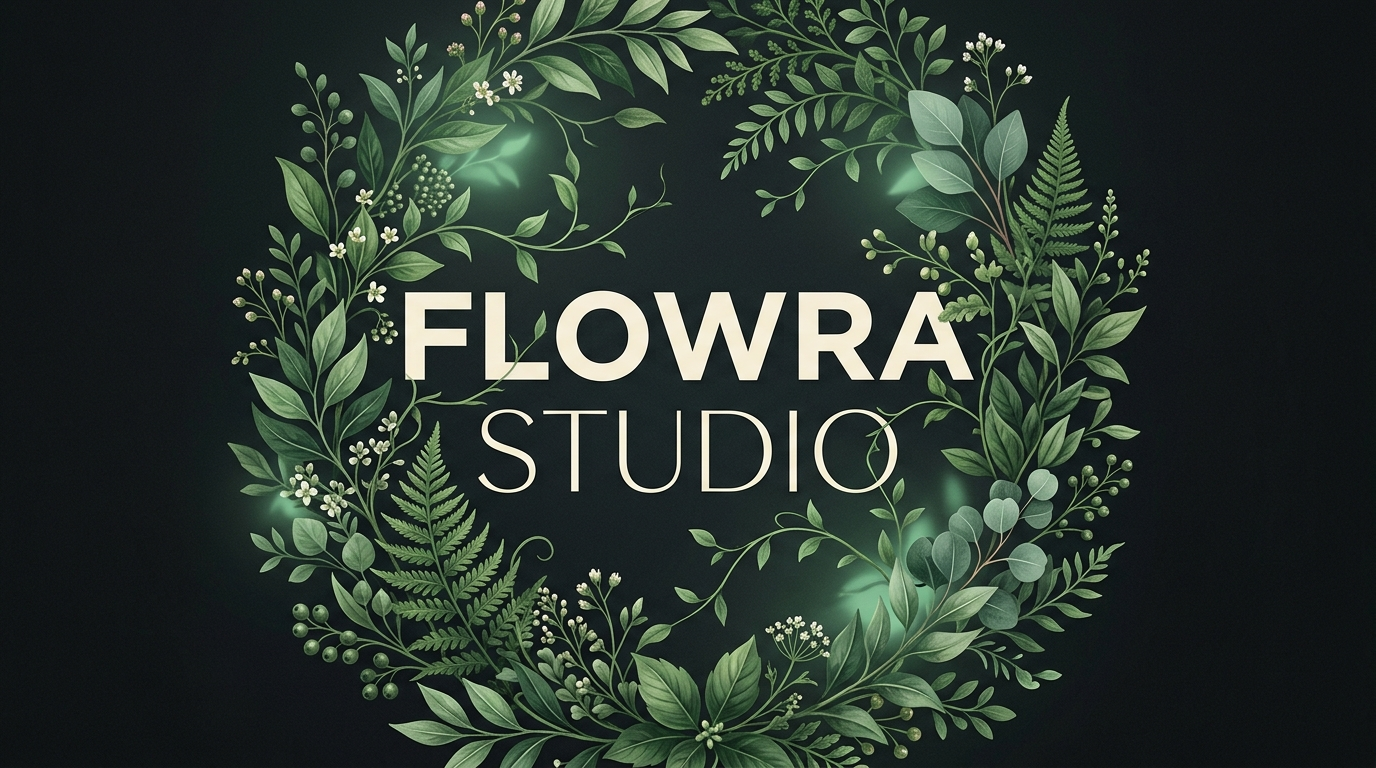
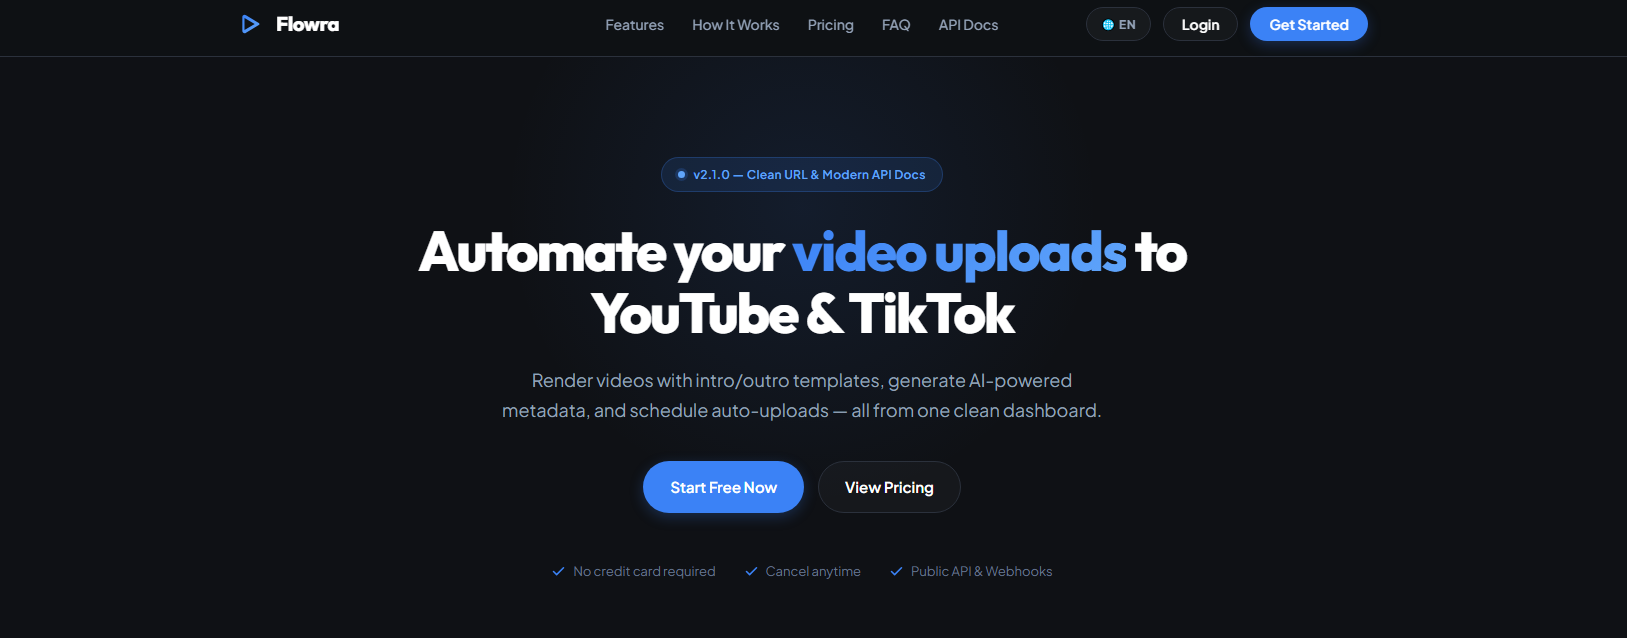
[~] Update Flowra status to Live App, update screenshot, and bump cache version

diff --git a/index.html b/index.html
@@ -1236,8 +1236,9 @@
         {
             title: "Flowra Studio",
             image: "img/flowra.png",
-            url: "../underconstruct.html",
-            type: "Under Development",
+            url: "https://marsy.my.id/flowra/",
+            type: "Live App",
+            featured: true,
             desc: {
                 id: "Dashboard web lokal untuk mengelola upload video ke YouTube secara batch & terjadwal, lengkap dengan render FFmpeg, konverter TikTok ke Shorts, AI Metadata, dan Smart Scheduling.",
                 en: "Local web dashboard to manage batch & scheduled YouTube video uploads, equipped with FFmpeg renderer, TikTok to Shorts converter, AI Metadata, and Smart Scheduling."

diff --git a/service-worker.js b/service-worker.js
@@ -1,4 +1,4 @@
-const CACHE_NAME = 'portfolio-cache-v10';
+const CACHE_NAME = 'portfolio-cache-v11';
 const ASSETS = [
   '/portofolio/',
   '/portofolio/index.html',